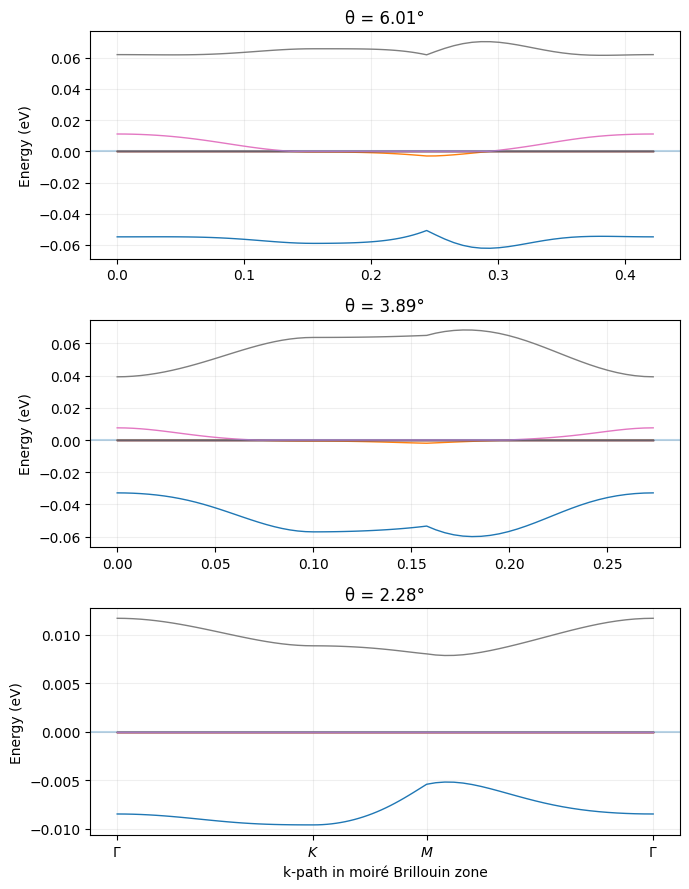
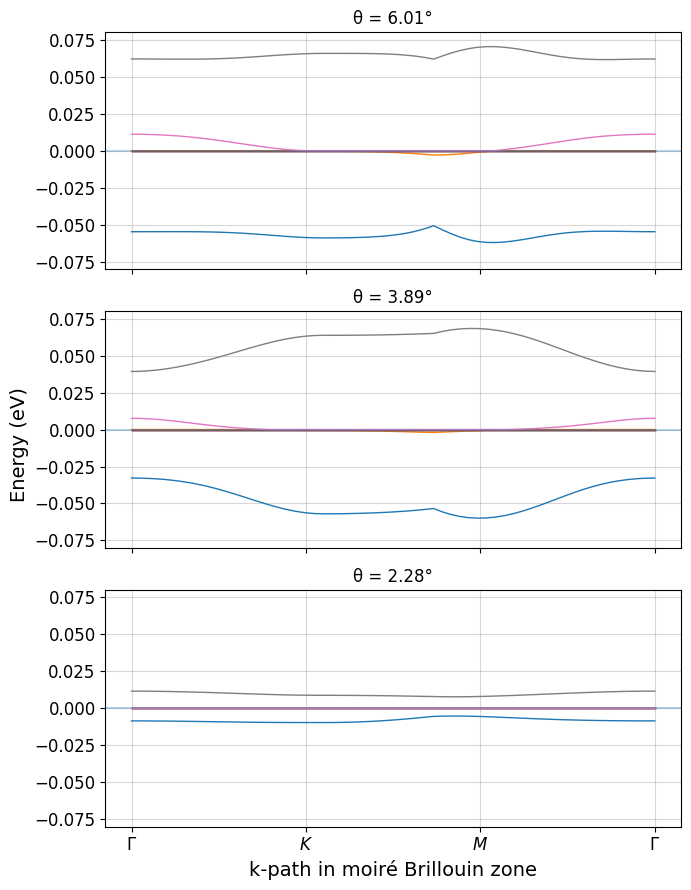
Changes to plots

diff --git a/twisted_bilayer_graphene_isolated.py b/twisted_bilayer_graphene_isolated.py
@@ -375,7 +375,7 @@ def run_bandstructure_comparison(angles_to_compare=None):
     if angles_to_compare is None:
         angles_to_compare = [(5,6), (8,9), (14,15)]
 
-    fig, axes = plt.subplots(3, 1, figsize=(7, 9), sharex=False)
+    fig, axes = plt.subplots(3, 1, figsize=(7, 9), sharex=True, sharey=True)
 
     for ax, (m, n) in zip(axes, angles_to_compare):
         theta = theta_from_mn(m, n)
@@ -387,6 +387,7 @@ def run_bandstructure_comparison(angles_to_compare=None):
 
         G, K, M = high_symmetry_points_moire(t1, t2)
         ks, x = make_k_path([G, K, M, G], n_per_seg=25)
+        x = x / x[-1]
 
         bands = []
         for kvec in ks:
@@ -401,14 +402,19 @@ def run_bandstructure_comparison(angles_to_compare=None):
         for b in range(bands.shape[1]):
             ax.plot(x, bands[:, b], lw=1)
 
-        ax.set_ylabel("Energy (eV)")
+        
         ax.set_title(f"θ = {theta_deg:.2f}°")
         ax.axhline(0, alpha=0.3)
-        ax.grid(True, alpha=0.2)
+        ax.grid(True, alpha=0.5)
+        ax.set_ylim(-0.08,0.08)
+        ax.tick_params(axis='both', labelsize=12)
+    
+    fig.supylabel("Energy (eV)", fontsize = 14)
 
-    axes[-1].set_xticks([x[0], x[len(x)//3], x[2*len(x)//3], x[-1]])
+    axes[-1].set_xticks([0, 1/3, 2/3, 1])
     axes[-1].set_xticklabels([r"$\Gamma$", r"$K$", r"$M$", r"$\Gamma$"])
-    axes[-1].set_xlabel("k-path in moiré Brillouin zone")
+    axes[-1].set_xlabel("k-path in moiré Brillouin zone", fontsize = 14)
+    
 
     plt.tight_layout()
     plt.savefig("TBG_bandstructure_comparison.png", bbox_inches='tight', pad_inches=0.1)
@@ -447,6 +453,6 @@ def run_dos(dos_angles=None):
     plt.show()
 
 
-run_bandwidth_vs_angle()
-#run_bandstructure_comparison()
+#run_bandwidth_vs_angle()
+run_bandstructure_comparison()
 #run_dos()

diff --git a/Monolayer_graphene_isolated.py b/Monolayer_graphene_isolated.py
@@ -80,16 +80,16 @@ def plot_dirac_cone(qmax, N, vF):
     ax.plot_surface(QX_nm, QY_nm, E_plus, cmap='inferno', alpha=0.9, linewidth=0, antialiased=True)
     ax.plot_surface(QX_nm, QY_nm, E_neg,  cmap='viridis', alpha=0.9, linewidth=0, antialiased=True)
 
-    ax.set_xlabel(r'$q_x$ (nm$^{-1}$)')
-    ax.set_ylabel(r'$q_y$ (nm$^{-1}$)')
-    ax.set_zlabel('Energy (eV)')
+    ax.set_xlabel(r'$q_x$ (nm$^{-1}$)', fontsize = 13)
+    ax.set_ylabel(r'$q_y$ (nm$^{-1}$)', fontsize = 13)
+    ax.set_zlabel('Energy (eV)', fontsize = 13)
     ax.set_xlim(-0.5, 0.5)
     ax.set_ylim(-0.5, 0.5)
     ax.set_zlim(-0.5, 0.5)
     ax.view_init(elev=8, azim=10)
     ax.set_box_aspect([1, 1, 1])
     ax.margins(0.1)
-
+    ax.tick_params(axis='both', labelsize=11)
     plt.tight_layout()
     plt.savefig('Monolayer_Graphene_Gamma_Point.png', bbox_inches='tight', pad_inches=0.1)
     plt.show()
@@ -128,5 +128,5 @@ def check_slope(qmax, N, vF):
 
 
 #plot_full_bz_surface(a_ang=2.46, gamma0=2.8, N=1000)
-#plot_dirac_cone(qmax=5e8, N=1000, vF=1e6)
-check_slope(qmax=5e8, N=800, vF=1e6)
+plot_dirac_cone(qmax=5e8, N=1000, vF=1e6)
+#check_slope(qmax=5e8, N=800, vF=1e6)

diff --git a/Moire_geometry_isolated.py b/Moire_geometry_isolated.py
@@ -88,8 +88,8 @@ def plot_moire(theta_deg=2.3, a_nm=0.246):
     ax.set_ylabel("y (nm)", fontsize=14)
     ax.grid(True, alpha=0.2)
     ax.legend(loc="upper right", fontsize=12, framealpha=0.9)
-    plt.xticks(fontsize=12)
-    plt.yticks(fontsize=12)
+    plt.xticks(fontsize=13)
+    plt.yticks(fontsize=13)
     plt.tight_layout()
     plt.savefig("moire_geometry_tbg_primitive_vectors.png", bbox_inches='tight', pad_inches=0.1)
     plt.show()
